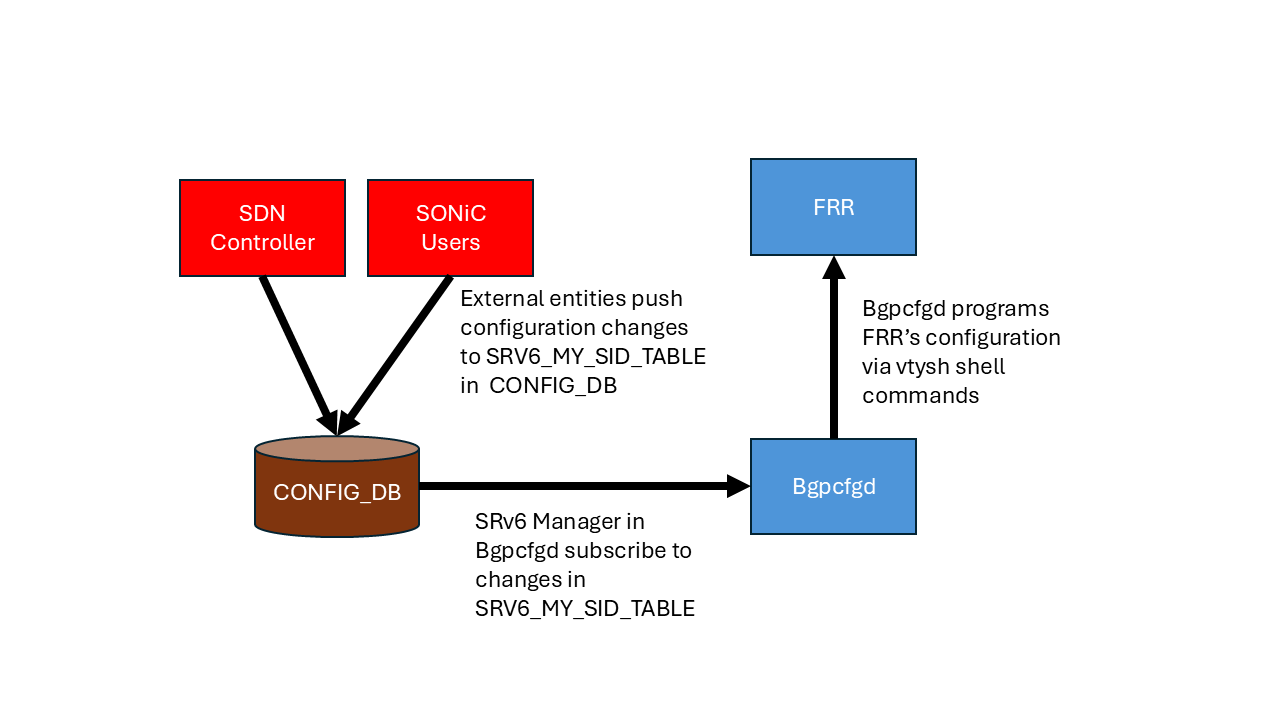
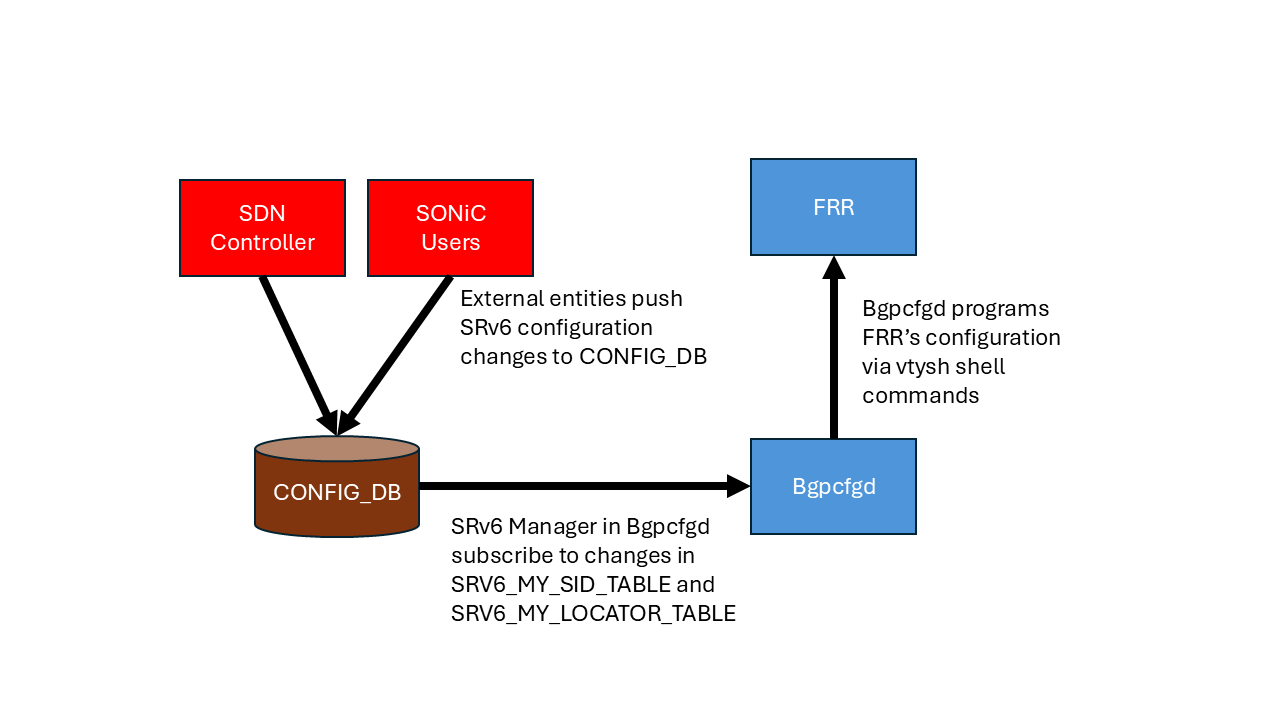
update the CONFIG_DB to use two tables

Changed region(s): [[0.3438, 0.7028, 0.5625, 0.8861], [0.3438, 0.4278, 0.5625, 0.55]]

diff --git a/doc/srv6/srv6_static_config_hld.md b/doc/srv6/srv6_static_config_hld.md
@@ -22,6 +22,7 @@
 | Rev  |   Date    |           Author           | Change Description      |
 | :--: | :-------: | :------------------------: | :---------------------: |
 | 0.1  | 12/5/2024 |       Changrong Wu         |  Initial version        |
+| 0.2  | 12/20/2024 |      Changrong Wu         | Update to use two tables per SONiC Routing WG discussion |
 
 
 # Definition/Abbreviation
@@ -44,8 +45,10 @@ This document provides general information about the design of the enhancements 
 # 1 Introuduction and Scope
 
 This document describes the high-level design of the new features in SONiC to support SRv6 SDN.
-The new features include the addtion of a new table in CONFIG_DB to allow static configuration of SRv6 and the enhancement of bgpcfgd to program FRR with input from CONFIG_DB.
+The new features include the addtion of a new table in CONFIG_DB to enable configuration of SRv6 and the enhancement of bgpcfgd to program FRR with input from CONFIG_DB.
 Besides, this document also define new YANG model specification and unit-test cases used to validate the aforementioned features.
+
+Note: frrcfgd in SONiC is also able to program SRv6 configurations to FRR but it is designed for scenarios where BGP is used to propagate SRv6 SIDs. SONiC users can choose either bgpcfgd or frrcfgd to program FRR configurations according to their own use cases freely.
 
 
 # 2 Feature Requirements
@@ -72,9 +75,9 @@ At the time of writing this document, FRR has been able to program the SRv6 rela
 However, there is still one gap preventing SONiC being utilized for SRv6 SDN deployment.
 Specifically, there is no mechamism in SONiC allowing SDN controllers or users to directly add configuration for SRv6 without involving BGP.
 
-In this document, we first define a new **SRV6_MY_SID_TABLE** table in CONFIG_DB that serves as the configuration source of SRv6 in SONiC.
-Then, we design a new SRv6 Manager module in bgpcfgd to subscribe to the **SRV6_MY_SID_TABLE** table and compile changes in CONFIG_DB to changes in the configurations of FRR (Note: the new SRv6 Manager relies on the new configuration CLI brought in by [FRR PR#16894](https://github.com/FRRouting/frr/pull/16894)).
-To verify the correctness of the aforementioned flow, we also define the relevant YANG model specification.
+In this document, we define two new tables in CONFIG_DB, i.e. **SRV6_MY_LOCATOR_TABLE** and **SRV6_MY_SID_TABLE**, which serves as the configuration source of SRv6 in SONiC.
+Then, we design a new SRv6 Manager module in bgpcfgd to subscribe to the two tables and compile changes in CONFIG_DB to changes in the configurations of FRR (Note: the new SRv6 Manager relies on the new configuration CLI brought in by [FRR PR#16894](https://github.com/FRRouting/frr/pull/16894)).
+To verify the correctness of the aforementioned flow, we also define the corresponding YANG model specification.
 The workflow of the new mechanism is shown in the following diagram.
 
 ![Static SRv6 Config flow](images/SRv6_bgpcfgd.png)
@@ -83,10 +86,29 @@ The design details of each step is described in the following subsections.
 
 ## 3.1 New Table in ConfigDB
 
+**SRV6_MY_LOCATOR_TABLE**
+
+Description: New table to hold the locators configured to the node.
+
+Schema:
+
+```
+; New table
+; holds SRv6 locators configured to the local node.
+
+key = SRV6_MY_LOCATOR_TABLE|locator_name
+; field = value
+block_len = blen             ; bit length of block portion in address, default 32
+node_len = nlen              ; bit length of node ID portion in address, default 16
+func_len = flen              ; bit length of function portion in address, default 16
+arg_len = alen               ; bit length of argument portion in address, default 0
+vrf = VRF_TABLE.key          ; the VRF that the locator belongs to, default "default"
+```
+
 
 **SRV6_MY_SID_TABLE**
 
-Description: New table to hold local SID definition and SID to behavior mapping. (A simplified redefinition of SRV6_MY_SID_TABLE in [SRv6_HLD](./srv6_hld.md))
+Description: New table to hold local SID definition and SID to behavior mapping.
 
 Schema:
 
@@ -96,10 +118,7 @@ Schema:
 
 key = SRV6_MY_SID_TABLE|ipv6address
 ; field = value
-block_len = blen             ; bit length of block portion in address, default 32
-node_len = nlen              ; bit length of node ID portion in address, default 16
-func_len = flen              ; bit length of function portion in address, default 16
-arg_len = alen               ; bit length of argument portion in address, default 0
+locator = locator_name       ; the name of the locator that the SID belongs to
 action = behavior            ; behaviors defined for the SID, default uN
 vrf = VRF_TABLE.key          ; Optional, VRF name for decapsulation actions, default "default", only applicable to uDT4/uDT46/uDT6 actions
 dscp_mode = dscp_decap_mode  ; Optional, the parameter that specifies how the node should handle DSCP bits when it performs decapsulation, default "uniform", only applicable to uDT4/uDT46/uDT6 actions
@@ -125,7 +144,7 @@ The current list of supported SRv6 behaviors allowed to be define in CONFIG_DB i
 
 ## 3.2 Bgpcfgd changes
 
-To enable automatic programming SRv6 configurations from CONFIG_DB to FRR, we need to add a new module in bgpcfgd to watch changes in **SRV6_MY_SID_TABLE** and compile the corresponding changes in FRR's configurations.
+To enable automatic programming SRv6 configurations from CONFIG_DB to FRR, we need to add a new module in bgpcfgd to watch changes in **SRV6_MY_LOCATOR_TABLE** and **SRV6_MY_SID_TABLE** and compile the corresponding changes in FRR's configurations.
 Following the naming convention of modules in bgpcfgd, we call this new module SRv6 Manager.
 The new SRv6 Manager are supposed to verify the validity of the configuration entries coming from the CONFIG_DB.
 If it gets an invalid configuration input, it should log the event in the syslog and not compile the configuration into FRR.
@@ -134,17 +153,20 @@ If it gets an invalid configuration input, it should log the event in the syslog
 The simplified version of the YANG model is defined below.
 ```
 module: sonic-srv6
-  +--rw sonic-srv6
-     +--rw SRV6_MY_SID_TABLE
+    +--rw sonic-srv6
+        +--rw SRV6_MY_SID_TABLE_LIST* [locator_name]
+            +--rw locator_name  string
+            +--rw block_len?    uint8
+            +--rw node_len?     uint8
+            +--rw func_len?     uint8
+            +--rw arg_len?      uint8
+            +--rw vrf?          union
         +--rw SRV6_MY_SID_TABLE_LIST* [ip_address]
-           +--rw ip_address    inet:ipv6-address
-           +--rw block_len?    uint8
-           +--rw node_len?     uint8
-           +--rw func_len?     uint8
-           +--rw arg_len?      uint8
-           +--rw action?       enumeration
-           +--rw vrf?          -> /vrf:sonic-vrf/VRF/VRF_LIST/name
-           +--rw dscp_mode?    enumeration
+            +--rw ip_address    inet:ipv6-address
+            +--rw locator       -> /srv6:sonic-srv6/SRV6_MY_SID_TABLE/SRV6_MY_SID_TABLE_LIST/locator_name
+            +--rw action?       enumeration
+            +--rw vrf?          -> /vrf:sonic-vrf/VRF/VRF_LIST/name
+            +--rw dscp_mode?    enumeration
 ```
 Refer to [sonic-yang-models](https://github.com/sonic-net/sonic-buildimage/tree/master/src/sonic-yang-models) for the YANG model defined with standard IETF syntax.
 
